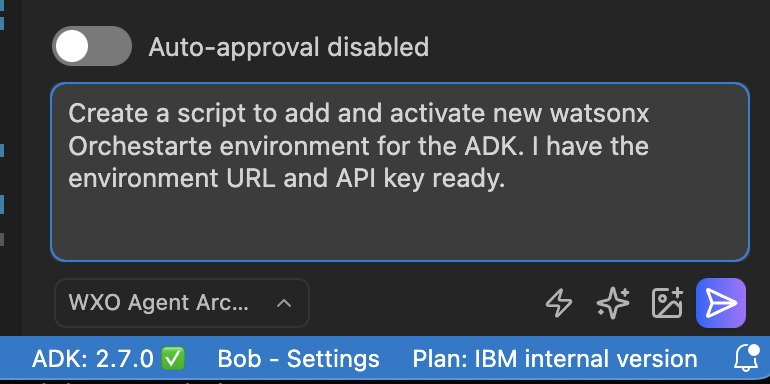
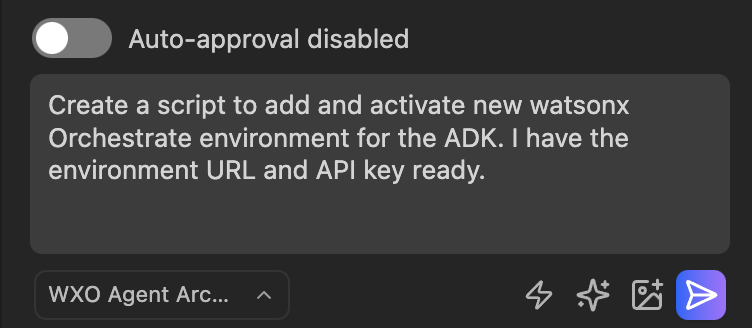
enhancements to part 1

diff --git a/part1-setup/README.md b/part1-setup/README.md
@@ -223,7 +223,7 @@ Copy the Service instance URL from the API details information. This is the base
 
 1. Open a terminal window within Bob IDE:
 
-   - Form the Bob main menu bar, select **Terminal** > **New Terminal**
+   - From the Bob main menu bar, select **Terminal** > **New Terminal**
 
       <img src="images/image-14.png" alt="Open terminal" width="70%">
    
@@ -253,156 +253,118 @@ Copy the Service instance URL from the API details information. This is the base
 
 Now that you have watsonx Orchestrate MCP servers and the WXO Agent Architect mode enabled, you can use Bob to help you with the setup.
 
-1. Make sure that you have the **WXO Agent Architect** mode selected for your Bob chat. Then ask Bon to create a script to add and activate new watsonx Orchestarte environment for the ADK:
+1. Make sure that you have the **WXO Agent Architect** mode selected for your Bob chat. Then ask Bob to create a script to add and activate new watsonx Orchestarte environment for the ADK:
 
    ```
-   Create a script to add and activate new watsonx Orchestarte environment for the ADK. I have the environment URL and API key ready.
+   Create a simple shell script to add and activate new watsonx Orchestrate SaaS environment for the ADK. I have the environment URL and API key ready.
    ```
 
    <img src="images/image-16.png" alt="Create a script to add and activate new watsonx Orchestarte environment for the ADK" width="60%">
 
-When prompted, enter the following information:
+2. When Bob starts working, it will be asking for a permissionm to access watsonx-orchestarte-adk-docs MCP server. Click on the **Aprove** button to allow Bob to access the documentation.
 
-- **Environment Name**: A descriptive name for this environment (e.g., "my-wxo-cloud" or "production")
-- **URL**: The API URL you copied in Step 1 (e.g., `https://us.watsonx-orchestrate.ibm.com`)
-- **API Key**: The API key you generated in Step 2
+   >Note: You can also check the **Always allow** checkbox to always allow Bob to access the MCP server. One option is to enable **Auto-approval**. If you do this, you can specify the different options that you want to allow.
 
-Example interaction:
-```
-? Enter environment name: my-wxo-cloud
-? Enter URL: https://us.watsonx-orchestrate.ibm.com
-? Enter API key: [paste your API key here]
-✓ Environment 'my-wxo-cloud' added successfully
-```
+      <img src="images/image-17.png" alt="Approve access to MCP server" width="40%">
 
-#### Step 4: Activate the Environment
+   >Note: Bob might ask you to approve the MCP server access multiple times. This is because Bob is trying to access the MCP server to get the more detailed information after first learning about the environment setup. Recommendation is to enable **Auto-approval** for the MCP servers to avoid granting the permission manually each time.
 
-Activate your newly configured environment:
+3. After Bob has created the script (e.g. _add_wxo_env.sh_, name could be something else for you), it will ask you to permission to save the script. Click on the **Save** button to save the script.
 
-```bash
-orchestrate environment activate my-wxo-cloud
-```
+4. Next, Bob will create a documentation - an MD-file - for the script. Click on the **Save** button to save the documentation.
 
-You should see a confirmation message:
-```
-✓ Environment 'my-wxo-cloud' activated
-```
+5. After Bob has saved the documentation, it will ask you to permission to make the script executable. Click on the **Run** to execute the command.
 
-#### Step 5: Verify the Configuration
+6. Finally Bob will summarize the task for you.
 
-Verify your connection is working:
+    <img src="images/image-18.png" alt="Task summary" width="40%">
 
-```bash
-orchestrate agents list
-```
+7. Open a terminal window within Bob IDE:
 
-If configured correctly, this command will list any agents in your environment (or show an empty list if you haven't created any agents yet).
+   - From the Bob main menu bar, select **Terminal** > **New Terminal**
 
-### Option B: Using Developer Edition (Local)
+      <img src="images/image-14.png" alt="Open terminal" width="70%">
+   
+   - This will open a terminal window in the Bob IDE - notice that your Python environment is already activated
 
-If you're running watsonx Orchestrate Developer Edition locally:
+      <img src="images/image-15.png" alt="Terminal window opened in Bob IDE" width="80%">
 
-```bash
-# Add local environment
-orchestrate environment add
+8. Run the created script in your terminal to **add** your environment:
 
-# When prompted:
-# - Name: local-dev
-# - URL: http://localhost:4321
-# - API Key: (leave empty or use your local key)
+   `./<name of your cerated script>, e.g. ./_add_wxo_env.sh`
 
-# Activate it
-orchestrate environment activate local-dev
-```
+9. When asked, provide name for your environment, e.g. `my-wxo-cloud`:
 
-### Option C: Using Environment Variables
+   <img src="images/image-19.png" alt="Env name" width="70%">
 
-You can also configure using environment variables:
+10. When asked, provide the URL of your Orchestrate instance that you got earlier:
 
-```bash
-export WO_URL="https://your-orchestrate-url.com"
-export WO_API_KEY="your-api-key"
-```
+      <img src="images/image-20.png" alt="Env URL" width="90%">
 
-## Step 12: Test Your Connection
+11. When asked, provide the API key of your Orchestrate instance that you got earlier. The script will then create a new environment and activate it:
 
-Create a simple verification script to test your setup:
+      <img src="images/image-21.png" alt="Env API key" width="70%">
 
-**Ask Bob to help you:**
-```
-Bob, create a Python script called verify-setup.py that tests my watsonx Orchestrate connection by listing available agents
-```
+12. Verify your connection is working:
 
-Or use the provided script below:
+      ```bash
+      orchestrate agents list
+      ```
 
-```python
-# verify-setup.py
-from ibm_watsonx_orchestrate import AgentBuilder
+      If configured correctly, this command will list any agents in your environment (or show an empty list if you haven't created any agents yet).
 
-def verify_setup():
-    """Verify watsonx Orchestrate setup"""
-    try:
-        # Initialize the agent builder
-        builder = AgentBuilder()
-        
-        print("✅ Successfully connected to watsonx Orchestrate!")
-        print("\nListing available agents...")
-        
-        # List agents
-        agents = builder.list_agents()
-        
-        if agents.native_agents or agents.external_agents or agents.assistant_agents:
-            print(f"\n📋 Found agents:")
-            for agent in agents.native_agents:
-                print(f"  - {agent['name']} (native)")
-            for agent in agents.external_agents:
-                print(f"  - {agent['name']} (external)")
-            for agent in agents.assistant_agents:
-                print(f"  - {agent['name']} (assistant)")
-        else:
-            print("\n📋 No agents found yet (this is normal for a new environment)")
-        
-        print("\n✅ Setup verification complete!")
-        return True
-        
-    except Exception as e:
-        print(f"❌ Error: {e}")
-        print("\nTroubleshooting tips:")
-        print("1. Check your API key is correct")
-        print("2. Verify your network connection")
-        print("3. Ensure you configured your environment:")
-        print("   orchestrate environment add")
-        print("   orchestrate environment activate <name>")
-        print("4. Or set environment variables:")
-        print("   export WO_URL='your-url'")
-        print("   export WO_API_KEY='your-key'")
-        return False
-
-if __name__ == "__main__":
-    verify_setup()
-```
-
-Run the script:
-```bash
-python verify-setup.py
-```
-
-## Step 13: Understand the Workshop Structure
+## Step 11: Understand the Workshop Structure
 
 Your workshop folder should look like this:
 
 ```
-workshop/
-├── README.md                    # Main workshop guide
-├── part1-setup/                 # You are here!
+bobchestrate-workshop/
+├── README.md                           # Main workshop guide
+├── GETTING-STARTED.md                  # Quick start guide
+├── .bob/                               # Bob IDE configuration
+├── bob-prompts/                        # Helpful Bob prompts
+│   └── helpful-prompts.md
+├── part1-setup/                        # You are here!
 │   ├── README.md
-│   └── verify-setup.py
-├── part2-first-agent/           # Next: Build your first agent
-├── part3-custom-tools/          # Then: Create custom tools
-├── part4-advanced/              # Advanced features
-├── part5-deployment/            # Deploy your agent
-├── solutions/                   # Reference solutions
-└── bob-prompts/                 # Helpful Bob prompts
+│   ├── verify-setup.py
+│   ├── files/
+│   │   └── wxo-agent-architect-export.yaml
+│   └── images/                         # Screenshots for setup guide
+├── part2-first-agent/                  # Next: Build your first agent
+│   ├── README.md
+│   ├── exercises.md
+│   └── hello-agent.yaml
+├── part3-custom-tools/                 # Create custom tools
+│   ├── README.md
+│   ├── exercises.md
+│   ├── order_status_tool.py
+│   └── refund_tool.py
+├── part4-knowledge/                    # Knowledge bases
+│   ├── README.md
+│   ├── customer-support-agent.yaml
+│   ├── escalation-agent.yaml
+│   └── faq-knowledge-base.yaml
+├── part5-guidelines-guardrails/        # Guidelines and guardrails
+│   ├── README.md
+│   ├── customer-support-with-guidelines.yaml
+│   └── content_safety_plugin.py
+├── part6-mcp-servers/                  # MCP server integration
+│   ├── README.md
+│   ├── product-assistant-agent.yaml
+│   ├── product-catalog-server.py
+│   ├── product-catalog-toolkit.yaml
+│   └── requirements.txt
+├── part7-multi-agent-orchestration/    # Multi-agent systems
+│   ├── README.md
+│   ├── travel-concierge-agent.yaml
+│   ├── activity-planner-agent.yaml
+│   ├── budget-advisor-agent.yaml
+│   ├── flight-specialist-agent.yaml
+│   ├── hotel-specialist-agent.yaml
+│   ├── flight_tools.py
+│   └── hotel_tools.py
+└── part8-deployment/                   # Deploy your agent
+    └── README.md
 ```
 
 ## Using Bob Throughout the Workshop
